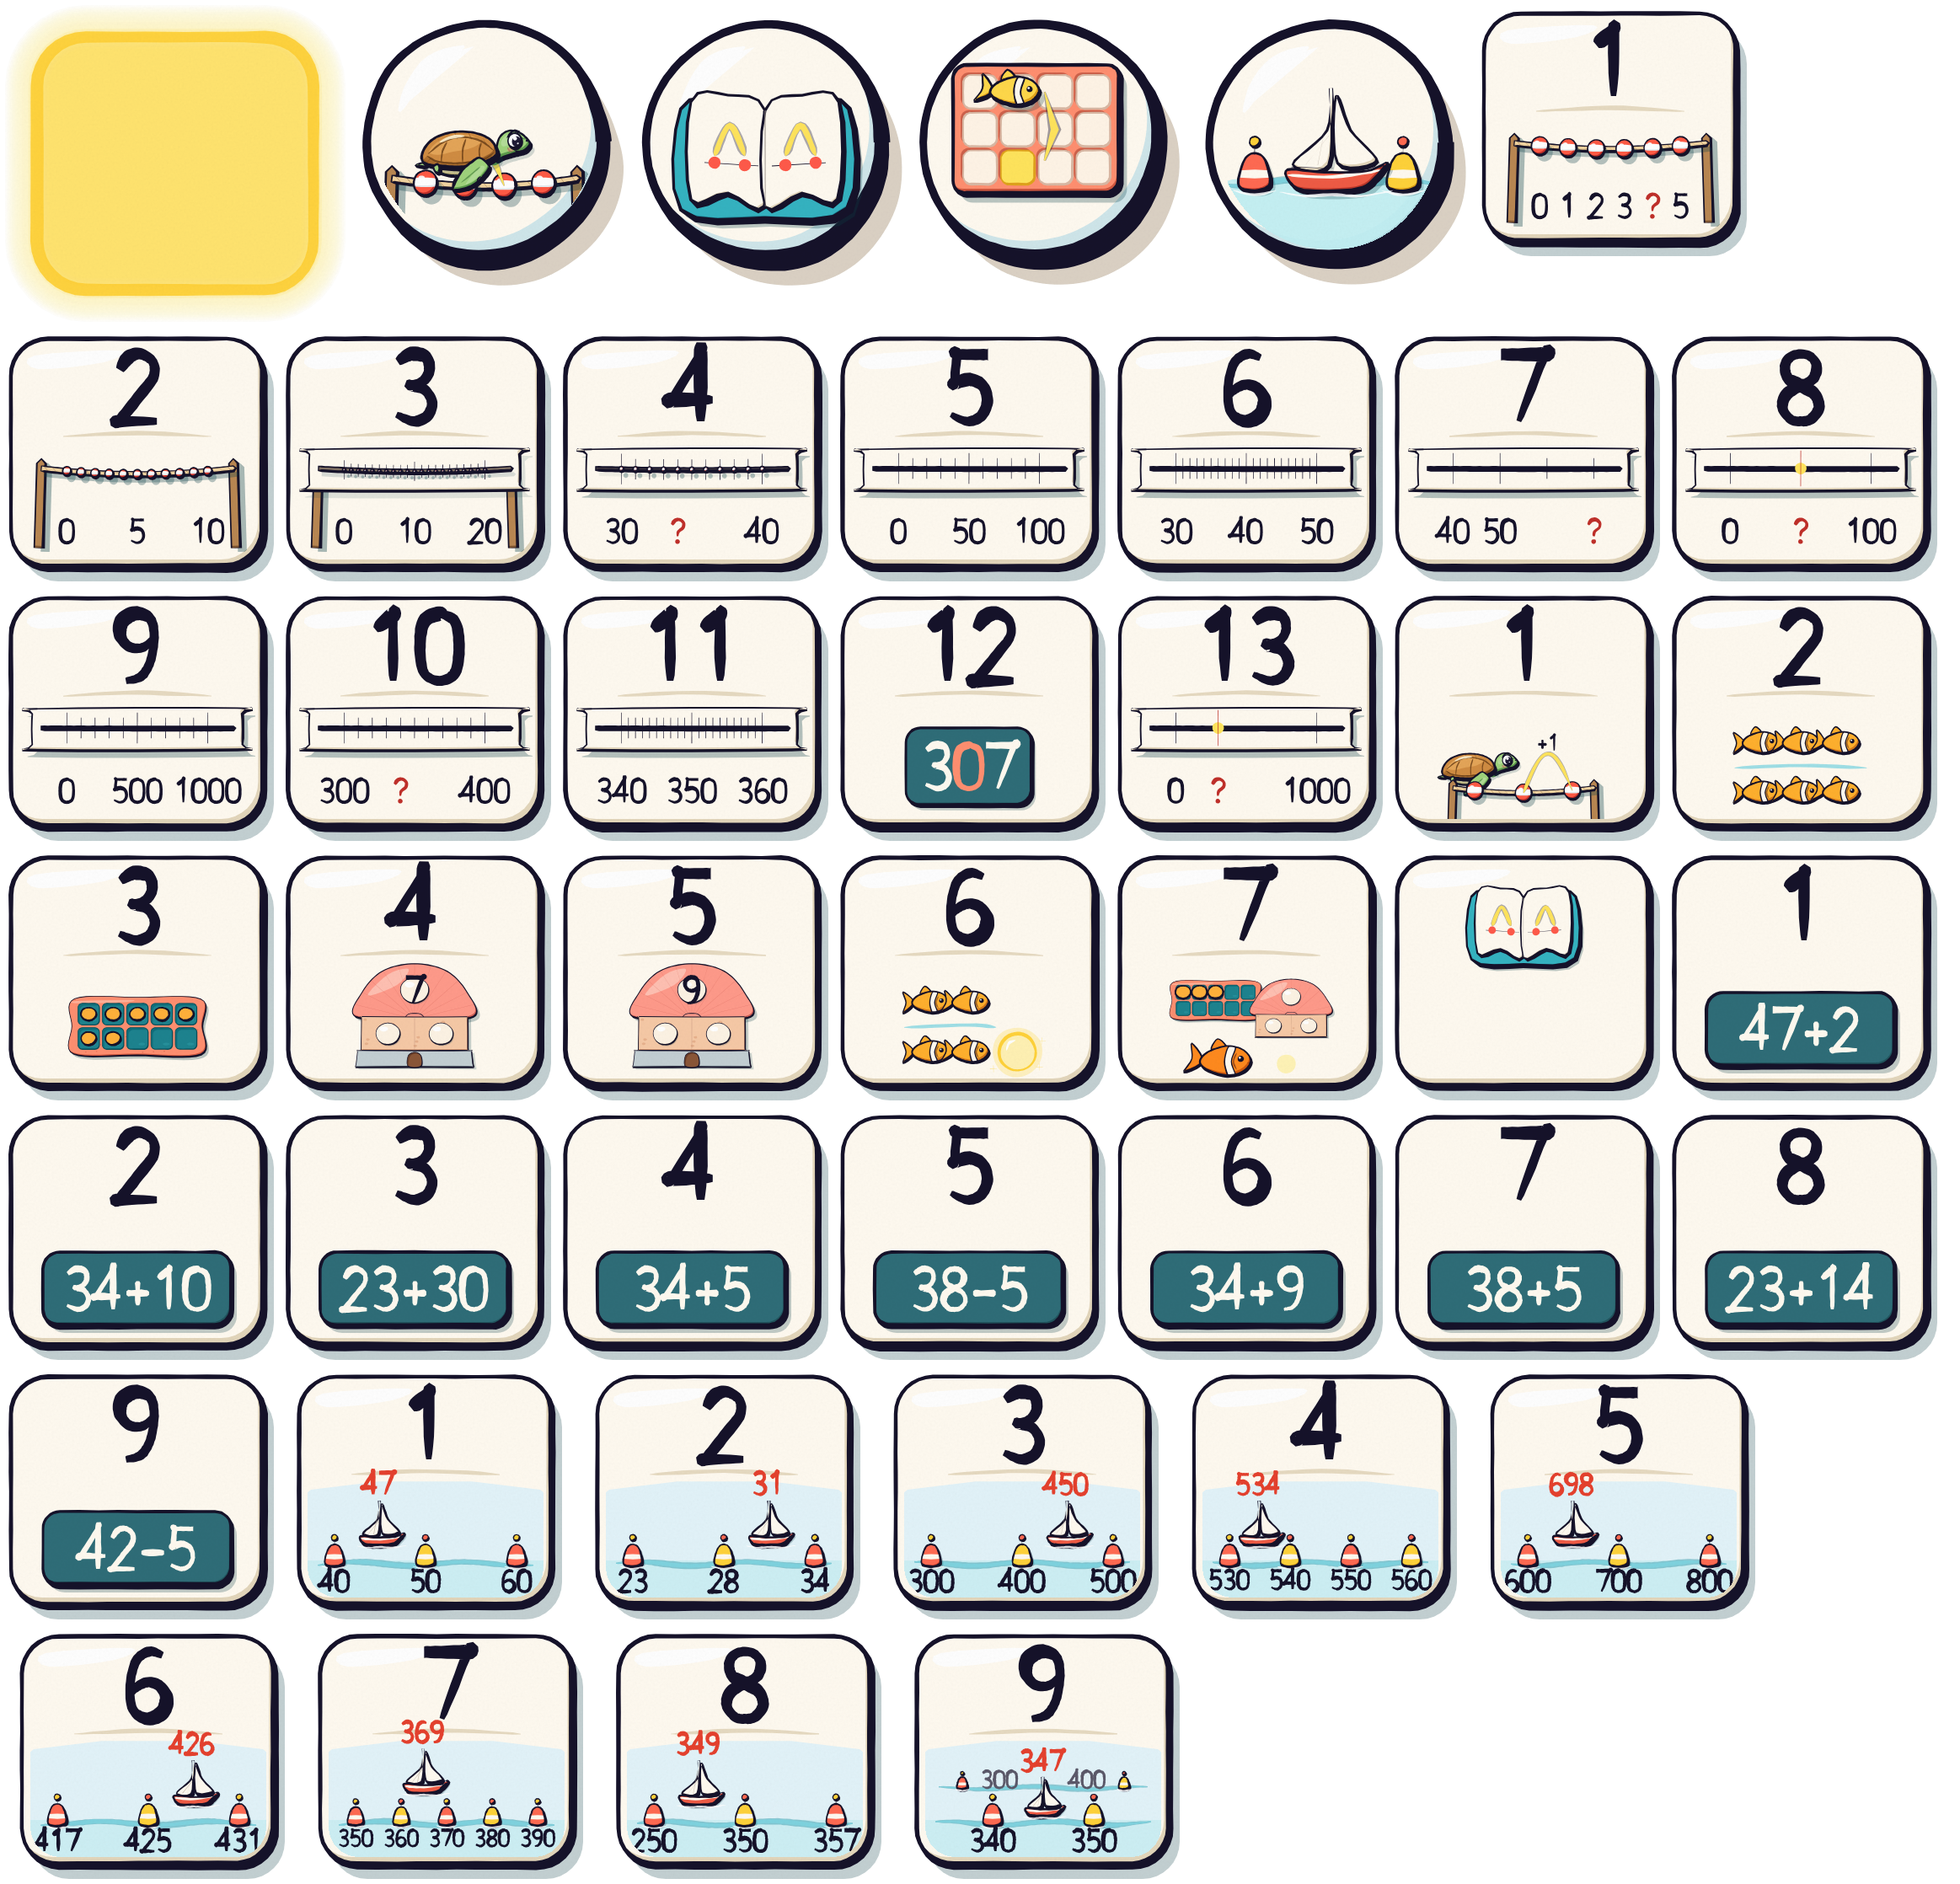
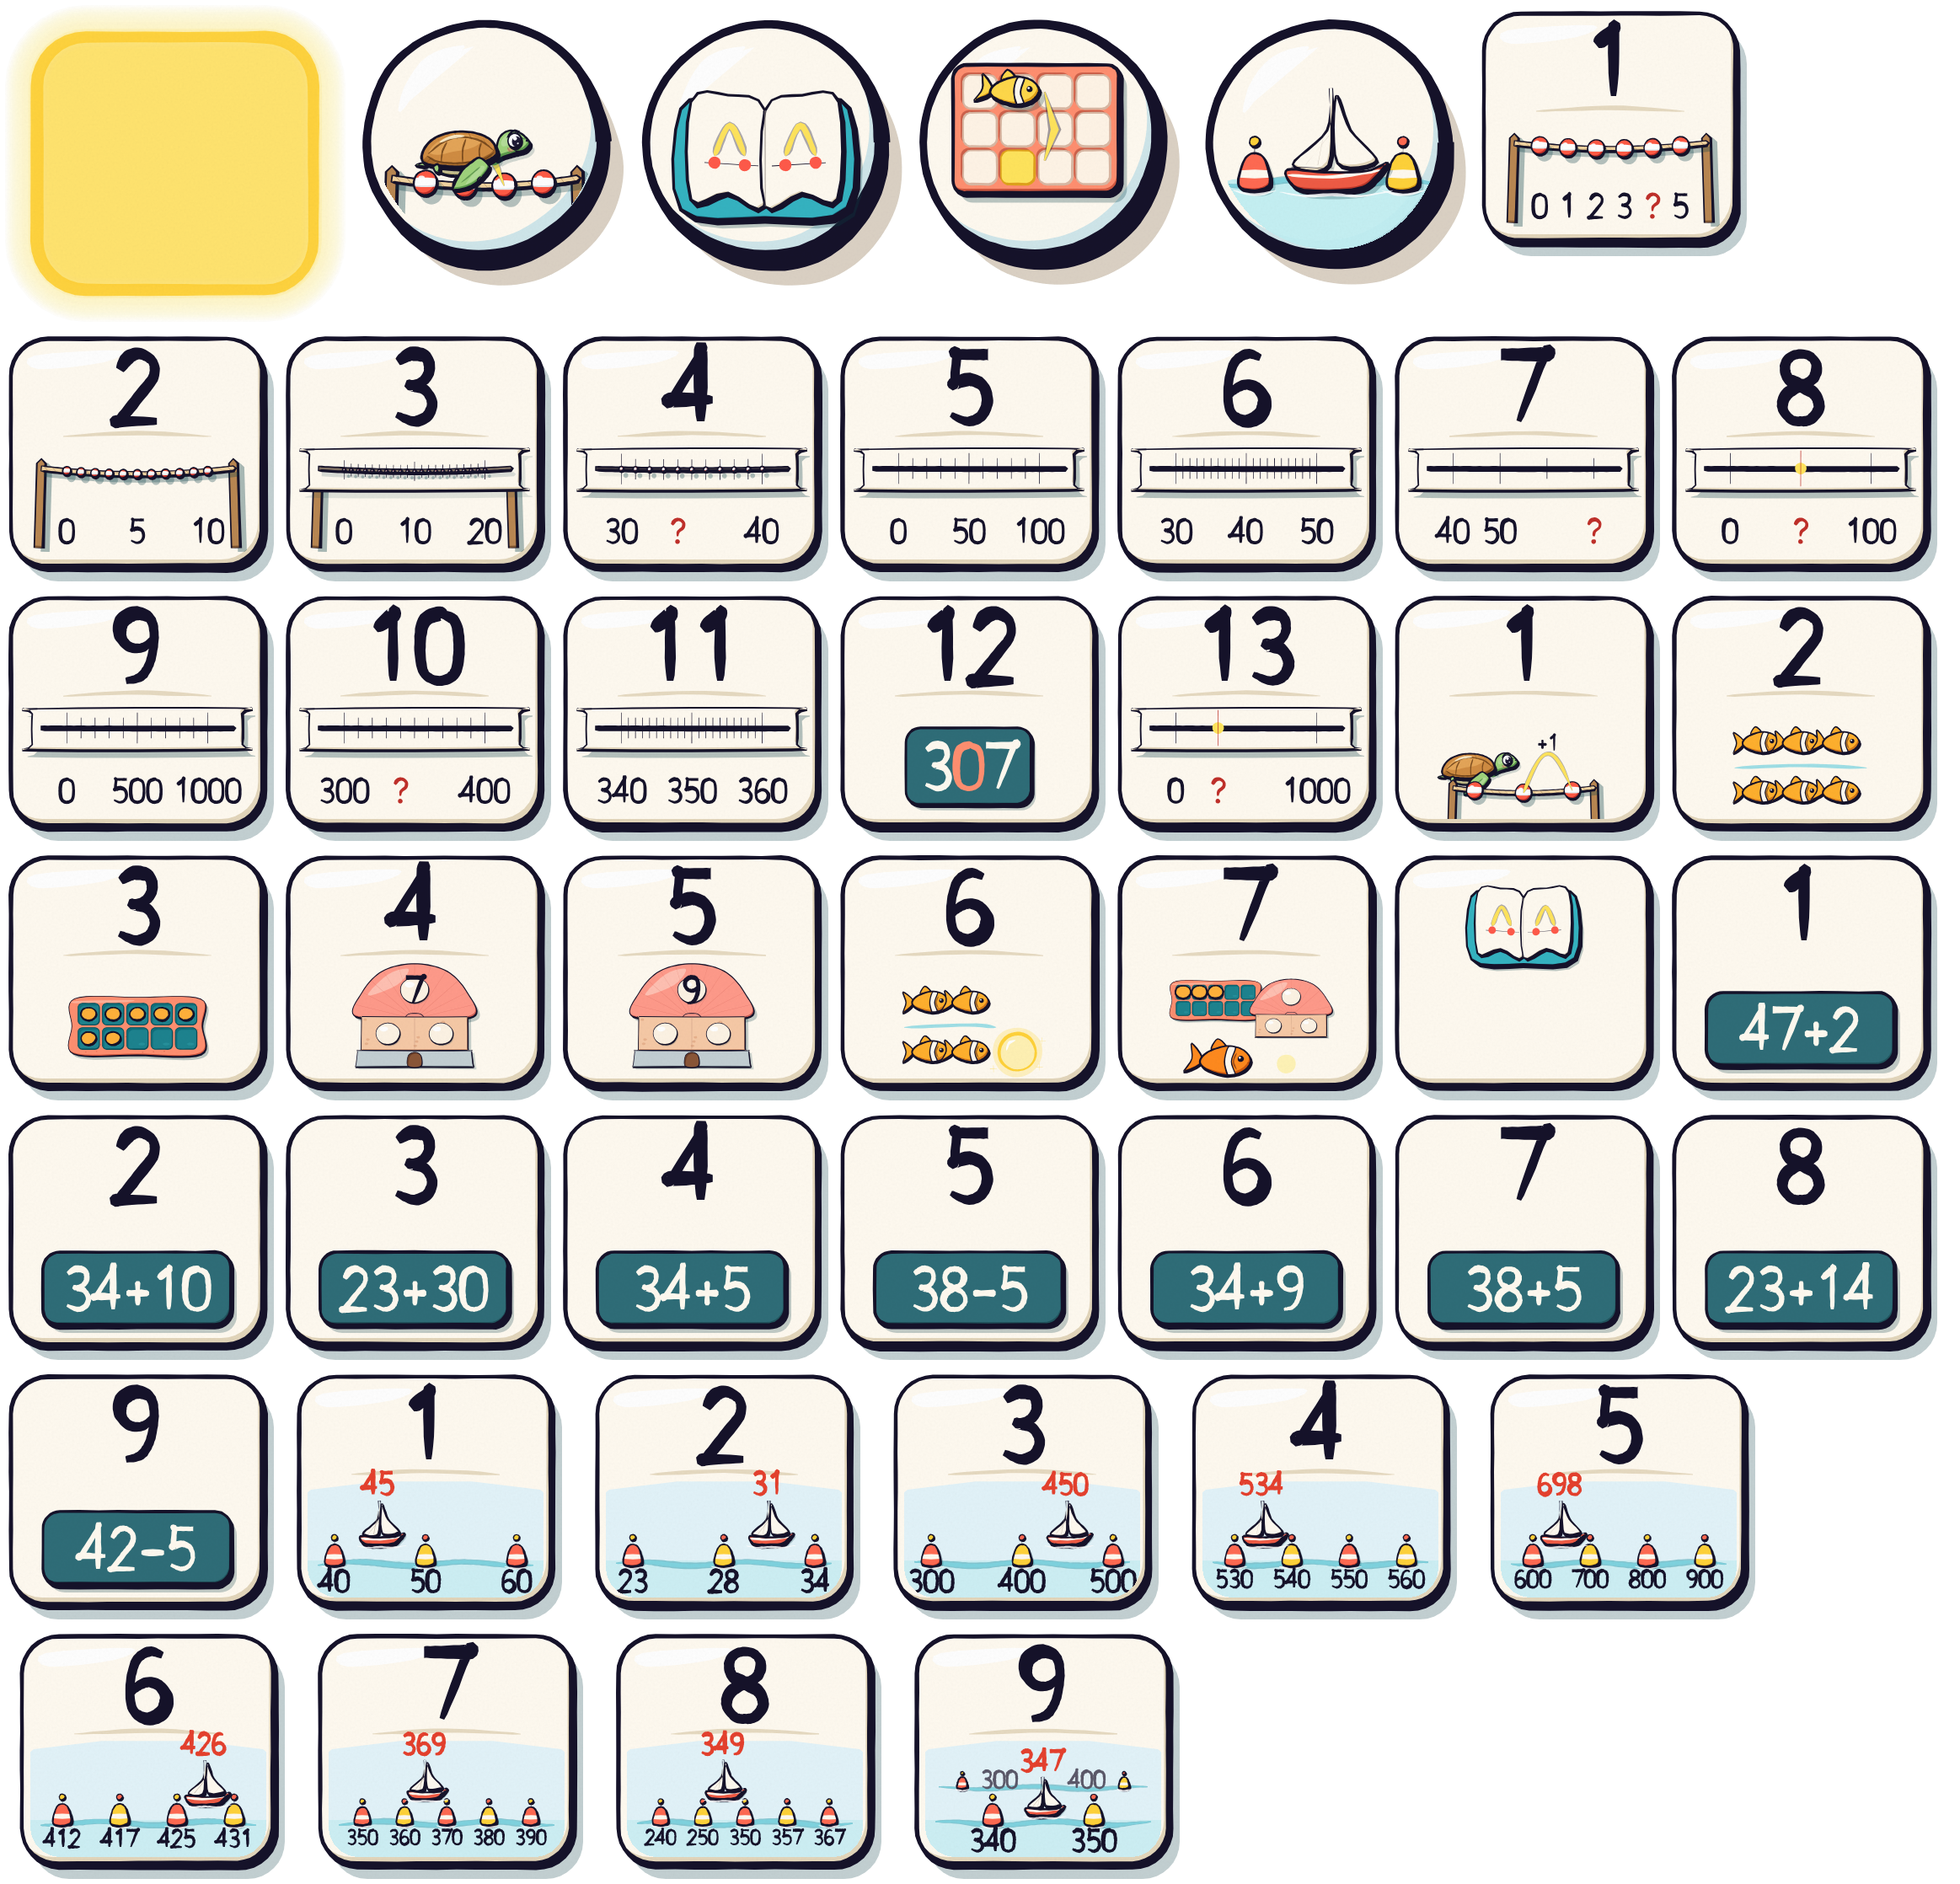
Voiliers : corrections de la relecture (pourquoi sans « entre », NSP au double jusqu'aux dizaines, guide plus haut, pas de relance sous le vent, exemples, vignettes, textes du parent)
Claude-Session: https://claude.ai/code/session_013CQVLo5S4UVSKGnotiBJqa

diff --git a/art/src/canvas-core/sea/voiliers.ts b/art/src/canvas-core/sea/voiliers.ts
@@ -86,14 +86,14 @@ export const drawStepVoiliers = (g: Gfx, cx: number, cy: number) => g.group("pla
 // ---------------------------------------------------------------- les plaques des niveaux
 // la rangée de chaque niveau (les exemples de module4.json et de la légende) : les bouées, leurs nombres, le bon passage
 export const VOILIER_TILES: Record<number, { bouees: number[]; num: number; loin?: number[] }> = {
-  1: { bouees: [40, 50, 60], num: 47 },
+  1: { bouees: [40, 50, 60], num: 45 },
   2: { bouees: [23, 28, 34], num: 31 },
   3: { bouees: [300, 400, 500], num: 450 },
   4: { bouees: [530, 540, 550, 560], num: 534 },
-  5: { bouees: [600, 700, 800], num: 698 },
-  6: { bouees: [417, 425, 431], num: 426 },
+  5: { bouees: [600, 700, 800, 900], num: 698 },
+  6: { bouees: [412, 417, 425, 431], num: 426 },
   7: { bouees: [350, 360, 370, 380, 390], num: 369 },
-  8: { bouees: [250, 350, 357], num: 349 },
+  8: { bouees: [240, 250, 350, 357, 367], num: 349 },
   9: { bouees: [340, 350], num: 347, loin: [300, 400] },
 };
 // (chaque bouée et le voilier sont des groupes à eux : un groupe se compose sur la planche à sa fin, donc après les dessins
@@ -101,9 +101,10 @@ export const VOILIER_TILES: Record<number, { bouees: number[]; num: number; loin
 export const drawVoiliersTile = (g: Gfx, cx: number, cy: number, level: number) => {
   plaque(g, cx, cy, 7750 + level);
   const T = VOILIER_TILES[level], n = T.bouees.length, k = T.bouees.findIndex((b) => b > T.num), pass = k < 0 ? n : k;
-  const wy = cy + 43, x0 = cx - 64, x1 = cx + 64;
-  const xs = T.bouees.map((_, i) => (n === 2 ? cx + (i ? 30 : -30) : x0 + 10 + ((x1 - x0 - 20) * i) / (n - 1)));
-  const bx = pass === 0 ? xs[0] - 22 : pass === n ? xs[n - 1] + 22 : (xs[pass - 1] + xs[pass]) / 2, kb = T.loin ? 0.3 : 0.34, by = wy - (T.loin ? 6 : n >= 5 ? 20 : 13);
+  // (relecture du lot : la rangée de chaque niveau, 3, 4 ou 5 bouées, sans que les nombres débordent de la plaque)
+  const wy = cy + 43, x0 = cx - 64, x1 = cx + 64, m = T.bouees.length >= 5 ? 14 : T.bouees.length === 4 ? 13 : 10;
+  const xs = T.bouees.map((_, i) => (n === 2 ? cx + (i ? 30 : -30) : x0 + m + ((x1 - x0 - 2 * m) * i) / (n - 1)));
+  const bx = pass === 0 ? xs[0] - 22 : pass === n ? xs[n - 1] + 22 : (xs[pass - 1] + xs[pass]) / 2, kb = T.loin || n >= 5 ? 0.3 : 0.34, by = wy - (T.loin ? 6 : n >= 5 ? 16 : 13);
   const farX = (i: number) => (i ? x1 - 16 : x0 + 16);
   // le ciel pâle (les voiles blanches s'y détachent) et l'eau, découpés par la plaque
   g.group("plain", () => clipped(g, inside(cx, cy), () => {
@@ -118,7 +119,7 @@ export const drawVoiliersTile = (g: Gfx, cx: number, cy: number, level: number) 
   // le voilier au-dessus du bon passage (le geste de l'enfant), son nombre en rouge au-dessus du mât
   drawSailboat(g, bx, by, kb, null, 7830 + level);
   g.group("plain", () => {
-    const ctx = g.cur as CanvasRenderingContext2D, em = n >= 5 ? 9.5 : n === 4 ? 11 : 12.5;
+    const ctx = g.cur as CanvasRenderingContext2D, em = n >= 5 ? (T.bouees.some((b) => b >= 100) ? 8.5 : 9.5) : n === 4 ? (T.bouees.some((b) => b >= 100) ? 10 : 11) : 12.5;
     clipped(g, inside(cx, cy), () => {
       T.loin?.forEach((b, i) => drawNumber(ctx, String(b), farX(i) + (i ? -22 : 22), cy + 12, 10, { color: mix(INK, "#ffffff", 0.3), w: 1.6, seed: 7772 + i }));
       T.bouees.forEach((b, i) => drawNumber(ctx, String(b), xs[i], wy + 4, em, { color: INK, w: em * 0.17, seed: 7800 + level * 10 + i }));

diff --git a/app/js/parent/parent.js b/app/js/parent/parent.js
@@ -342,7 +342,7 @@ export class ParentSpace {
       const cur = Math.min(9, st4.niveau ?? 1);
       m4.append(h("p", { class: "pa-big" }, `Niveau atteint : ${cur} sur 9`), h("p", { class: "pa-note" }, M4.niveaux[cur]),
         h("div", { class: "pa-levels", "aria-hidden": "true" }, Array.from({ length: 9 }, (_, i) => h("span", { class: i + 1 < cur ? "done" : i + 1 === cur ? "cur" : "" }, i + 1))),
-        h("p", { class: "pa-note" }, "L'enfant fait glisser chaque bateau jusqu'au passage où son nombre se range, entre deux bouées. Un niveau est franchi avec 8 bateaux rangés du premier coup sur les 10 derniers. La mer suit le cran choisi au début de la séance : calme (plus facile), le vent qui pousse le bateau (conseillé, après 3 réussites de suite), les pirates qui le poursuivent (plus dur, très dur)."),
+        h("p", { class: "pa-note" }, "L'enfant fait glisser chaque bateau jusqu'au passage où son nombre se range : entre les deux bouées qui l'encadrent, avant la première ou après la dernière. Elle passe au niveau suivant après 8 bateaux rangés du premier coup sur les 10 derniers, ou tout de suite si les 5 premiers d'un niveau sont rangés du premier coup et vite. La difficulté choisie au début de la séance ne change pas le niveau, seulement la mer : « plus facile », la mer reste calme (et l'enfant ne change pas de niveau) ; « conseillé », calme, puis le vent qui pousse le bateau après 3 réussites de suite ; « plus dur », le vent, puis des pirates qui poursuivent le bateau ; « très dur », les pirates. Deux échecs ramènent la mer d'avant."),
         h("h3", {}, "Historique des niveaux"), D.levelHistory(st4).every((e) => e.niveau === 1 && e.type === "obtenu") ? h("p", { class: "pa-muted" }, "Toujours au niveau 1.") : h("ul", { class: "pa-hist" }, D.levelHistory(st4).filter((e) => e.niveau > 1 || e.type !== "obtenu").map((e) => h("li", {}, `${D.fmtDay(e.date)} : ${e.type === "redescente" ? `retour au niveau ${e.niveau}` : e.type === "parent" ? `niveau ${e.niveau} choisi par le parent (point de départ)` : `niveau ${e.niveau} atteint`}`))));
     }
     this.weeklyBlock(m4, 4);

diff --git a/app/js/modules/voiliers/screen.js b/app/js/modules/voiliers/screen.js
@@ -185,7 +185,11 @@ export class VoiliersScreen {
     };
     const r1 = await rangee(q.bouees, q.k, !q.double);
     let r2 = null;
-    if (q.double && !r1.nsp && !r1.rattrape && !(q.mer === "pirates" && !r1.fin)) {
+    // (relecture du lot : « je ne sais pas » au double encadrement montre aussi la rangée des dizaines)
+    if (q.double && r1.nsp) {
+      await api.traversee(q.rangee2).then(g); if (!vivant()) return new Promise(() => {});
+      await this.montrer(q.rangee2, q.k2, q, { derniere: true });
+    } else if (q.double && !r1.rattrape && !(q.mer === "pirates" && !r1.fin)) {
       // la bonne centaine : « C'est entre 300 et 400 ! », la caméra recule, la rangée des dizaines
       if (r1.fin) { ocean.mascotte.play("rejouir"); sound?.play("bonne"); const e = entre(q.bouees, q.k); await Promise.all([this.dire(e ? fill(T.voiliersBravoEntre, { a: e[0], b: e[1] }) : null), api.traversee(q.rangee2)]).then(g); }
       else await api.traversee(q.rangee2).then(g);
@@ -222,8 +226,8 @@ export class VoiliersScreen {
     this.passable(true); api.vitesse(this.vitesseCorrection());
     const p = pourquoi(b, q.num);
     if (nsp) await this.dire(T.erreur.NSP).then(g);
-    api.allumer(p.bouee == null ? [k - 1, k] : [p.bouee]);
-    const phrase = p.cle === "entre" ? fill(T.voiliersBravoEntre, { a: p.a, b: p.b }) : fill(T.voiliersErreur[p.cle], { b: p.b });
+    api.allumer([p.bouee]);
+    const phrase = fill(T.voiliersErreur[p.cle], { b: p.b });
     await Promise.all([this.dire(phrase), api.guider(k)]).then(g);
     // le double encadrement continue (la rangée des dizaines) ; sinon, le bateau passe
     if (derniere) await api.passe(k).then(g);

diff --git a/app/js/main.js b/app/js/main.js
@@ -436,7 +436,8 @@ const progress = (p) => {
 const awaiting = () => [app.screen, app.facts].some((s) => s && s.resolve && !s.locked) || !!app.voiliers?.attend;
 // (lot « Mascotte ») la relance : 25 s sans toucher pendant une question, une phrase d'aide (12 s : un geste, la mascotte le
 // fait seule) ; seulement si une question attend sa réponse, hors pause et sans autre phrase en cours
-ocean.mascotte.onRelance = () => { if (awaiting() && !app.enPause && !visiting && !voice.speaking && !voice.paused) voice.say(text.pick("relanceAide")); };
+// (lot « Les voiliers » : pas avec le vent ni les pirates, où le bateau avance seul : relecture du lot)
+ocean.mascotte.onRelance = () => { if (awaiting() && !app.enPause && !visiting && !voice.speaking && !voice.paused && !(app.voiliers?.attend && app.voiliers.q?.mer !== "calme")) voice.say(text.pick("relanceAide")); };
 let ambianceAvantPause = null;
 // L'ACCUEIL COMPLET PENDANT UNE PAUSE (lot 3, étape 5 ; décision du parent du 28 septembre ; docs/SPEC.md, « Navigation
 // pendant la séance ») : « continuer » (reprise exacte), « choisir » (l'écran de choix : revenir sans valider ramène ici ;

diff --git a/app/js/modules/voiliers/voiliers.js b/app/js/modules/voiliers/voiliers.js
@@ -88,11 +88,11 @@ export function explication(b, c, v) {
   const i = c < k ? c : c - 1, apres = c < k;
   return { cle: `${apres ? "plusGrand" : "plusPetit"}${rond(b[i]) ? "" : "Bouee"}`, b: b[i], bouee: i };
 }
-// pourquoi le bon passage est le bon (le bateau y va seul) : « C'est entre 40 et 50 ! » quand il est entre deux bouées
-// rondes voisines ; sinon, par rapport à la bouée de gauche (il passe après), ou à la première (il passe avant)
+// pourquoi le bon passage est le bon (le bateau y va seul) : par rapport à la bouée de gauche (il passe après), ou à la
+// première (il passe avant). (Relecture du lot : « C'est entre 40 et 50 ! » est réservé aux réussites ; dit aussi pour une
+// correction, l'enfant ne savait plus si elle avait réussi.)
 export function pourquoi(b, v) {
-  const k = passage(b, v), e = entre(b, k);
-  if (e) return { cle: "entre", a: e[0], b: e[1], bouee: null };
+  const k = passage(b, v);
   const i = k > 0 ? k - 1 : 0, apres = k > 0;
   return { cle: `${apres ? "plusGrand" : "plusPetit"}${rond(b[i]) ? "" : "Bouee"}`, b: b[i], bouee: i };
 }

diff --git a/app/css/app.css b/app/css/app.css
@@ -139,7 +139,7 @@ body { touch-action: none; user-select: none; -webkit-user-select: none; -webkit
 .bulle .epais { fill: none; stroke: #111; stroke-width: 5; stroke-linejoin: round; }
 .bulle .trait { fill: #fffef8; stroke: #111; stroke-width: 4; stroke-linejoin: round; }
 .bulle-texte { position: absolute; width: max-content; box-sizing: border-box; text-align: center; color: #111; font: 600 30px/1.16 "Shantell Sans", "Comic Sans MS", cursive; letter-spacing: 0.01em; hyphens: none; overflow-wrap: normal; }
-.bulle-texte .m { opacity: 0; transition: opacity 0.12s; }
+.bulle-texte .m { opacity: 0; transition: opacity 0.12s; white-space: nowrap; } /* (lot « Les voiliers » : « trois-cent-quarante-sept » n'est jamais coupé à un trait d'union) */
 .bulle-texte .m.on { opacity: 1; }
 .bulle-texte .nb { color: #d63a26; font-weight: 700; }
 .bulle.pop { animation: bulle-pop 0.38s ease-out; }

diff --git a/app/js/voiliers/voiliers-scene.js b/app/js/voiliers/voiliers-scene.js
@@ -527,7 +527,8 @@ const API={
   // le bateau va seul jusqu'au bon passage, au bord de la ligne des bouées (puis passe(k))
   guider(k){
     B.mode='auto';drag=null;BU.forEach(x=>x.lit=0);if(P.vis&&P.mode!=='leave')P.mode='leave';
-    return new Promise(res=>tween(B,{x:zoneCenter(k),y:LINE_Y-70},1600,undefined,res));
+    // (relecture du lot : arrêté en retrait de la ligne, il ne cache pas les bouées dont parle la voix)
+    return new Promise(res=>tween(B,{x:zoneCenter(k),y:LINE_Y-170},1600,undefined,res));
   },
   // le double encadrement : la bonne centaine franchie, la caméra recule, la rangée des dizaines apparaît (maquette, startTravel)
   traversee(row2){

diff --git a/app/sw.js b/app/sw.js
@@ -2,7 +2,7 @@
 // cache, même sans réseau. La liste des fichiers et la version viennent de sw-files.json, produit par
 // `node tools/precache.mjs` (la ligne VERSION ci-dessous est réécrite par le même outil : quand un
 // fichier change, ce script change aussi, et le navigateur installe la nouvelle version).
-const VERSION = "367699f12eac";
+const VERSION = "454315688292";
 const CACHE = `ocean-${VERSION}`;
 // la résolution des planches d'images de cet écran (main.js : sw.js?r=1 ou ?r=2) : on ne met en cache que
 // celle-là (une planche qui n'existe qu'en @1x, comme les rayons, est toujours gardée)
